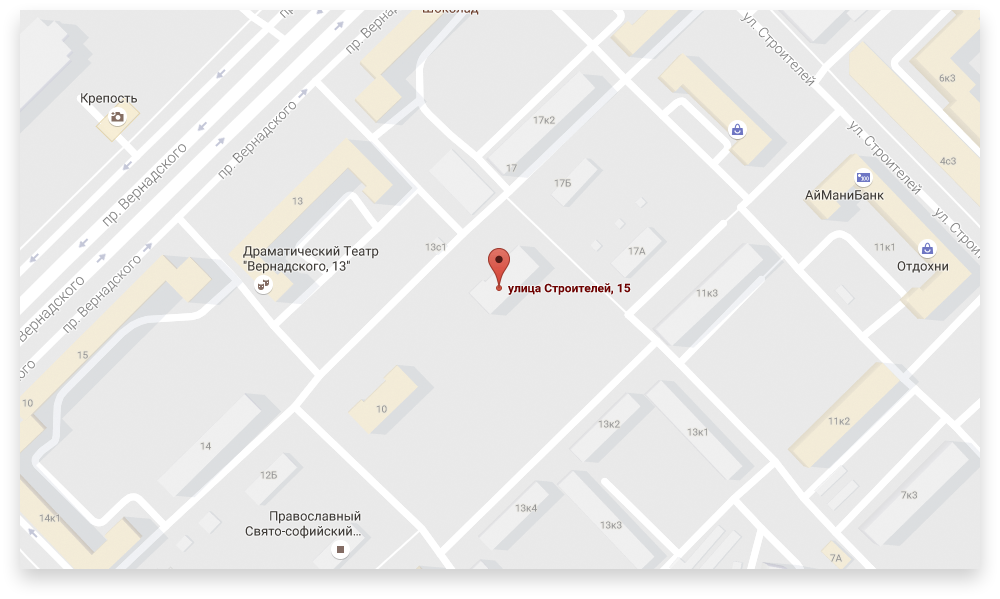
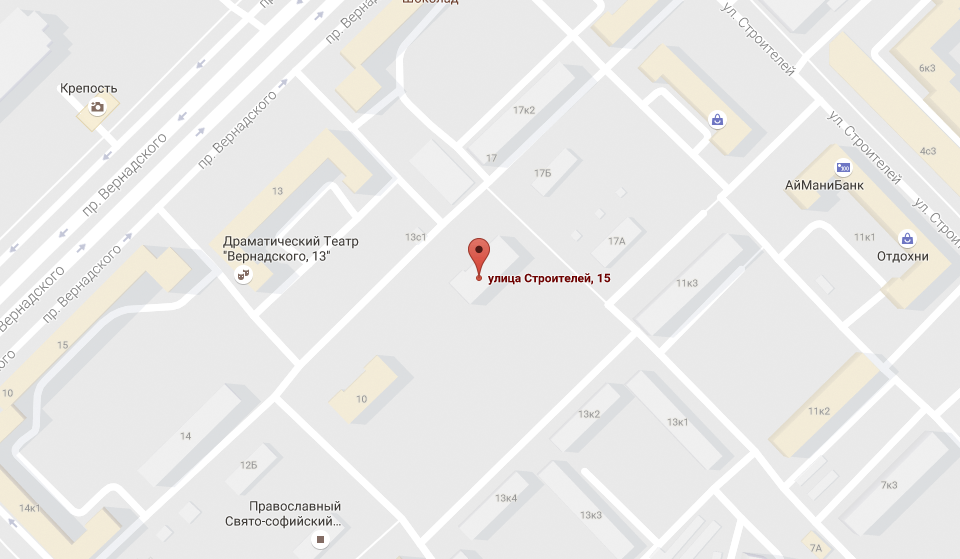
make popup-map styles

diff --git a/index.html b/index.html
@@ -452,7 +452,7 @@
       </div>
     </footer>
 
-    <section class=" popup popup-mail-us">
+    <section class="disabled popup popup-mail-us">
       <h2 class="visually-hidden">Напишите нам</h2>
       <form class="form-mail-us" action="https://echo.htmlacademy.ru" method="get">
 
@@ -482,9 +482,7 @@
 
     <section class="disabled popup popup-map">
       <h2 class="visually-hidden">Как до нас добраться</h2>
-      <p>
-        <img src="img/map-big.png" width="960" height="559" alt="Офис компании по адресу г. Москва, ул. Строителей, 15 ">
-      </p>
+      <img class="popup-map-image" src="img/map-big.png" width="960" height="559" alt="Офис компании по адресу г. Москва, ул. Строителей, 15 ">
       <button class="popup-close" type="button">
         <span class="visually-hidden">Закрыть</span>
       </button>

diff --git a/css/style.css b/css/style.css
@@ -1407,6 +1407,16 @@ a.brand:hover {
   margin-top: -276px;
 }
 
+.popup-map {
+  padding: 0;
+  top: 50%;
+  margin-top: -279px;
+}
+
+.popup-map-image {
+  display: block;
+}
+
 /* --- --- --- --- popup form --- --- --- --- */
 
 .form-mail-us {
@@ -1518,7 +1528,7 @@ a.brand:hover {
   background: rgba(237,181,181,0.5);
 }
 
-/* --- --- --- --- popup button --- --- --- --- */
+/* --- --- --- --- popup form button --- --- --- --- */
 
 .popup .button-animated {
   display: inline-block;
